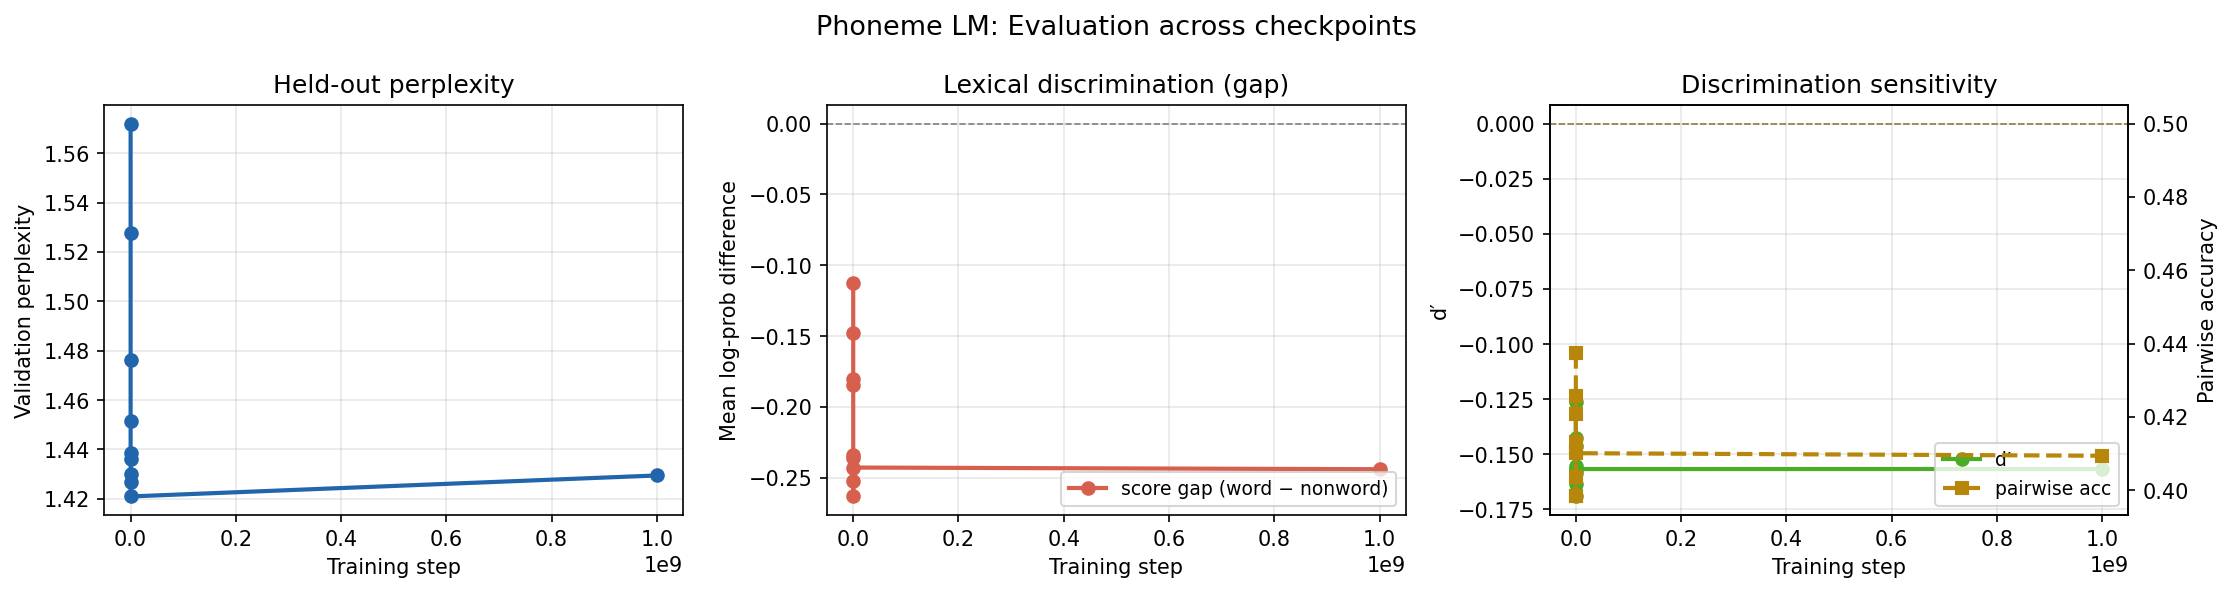
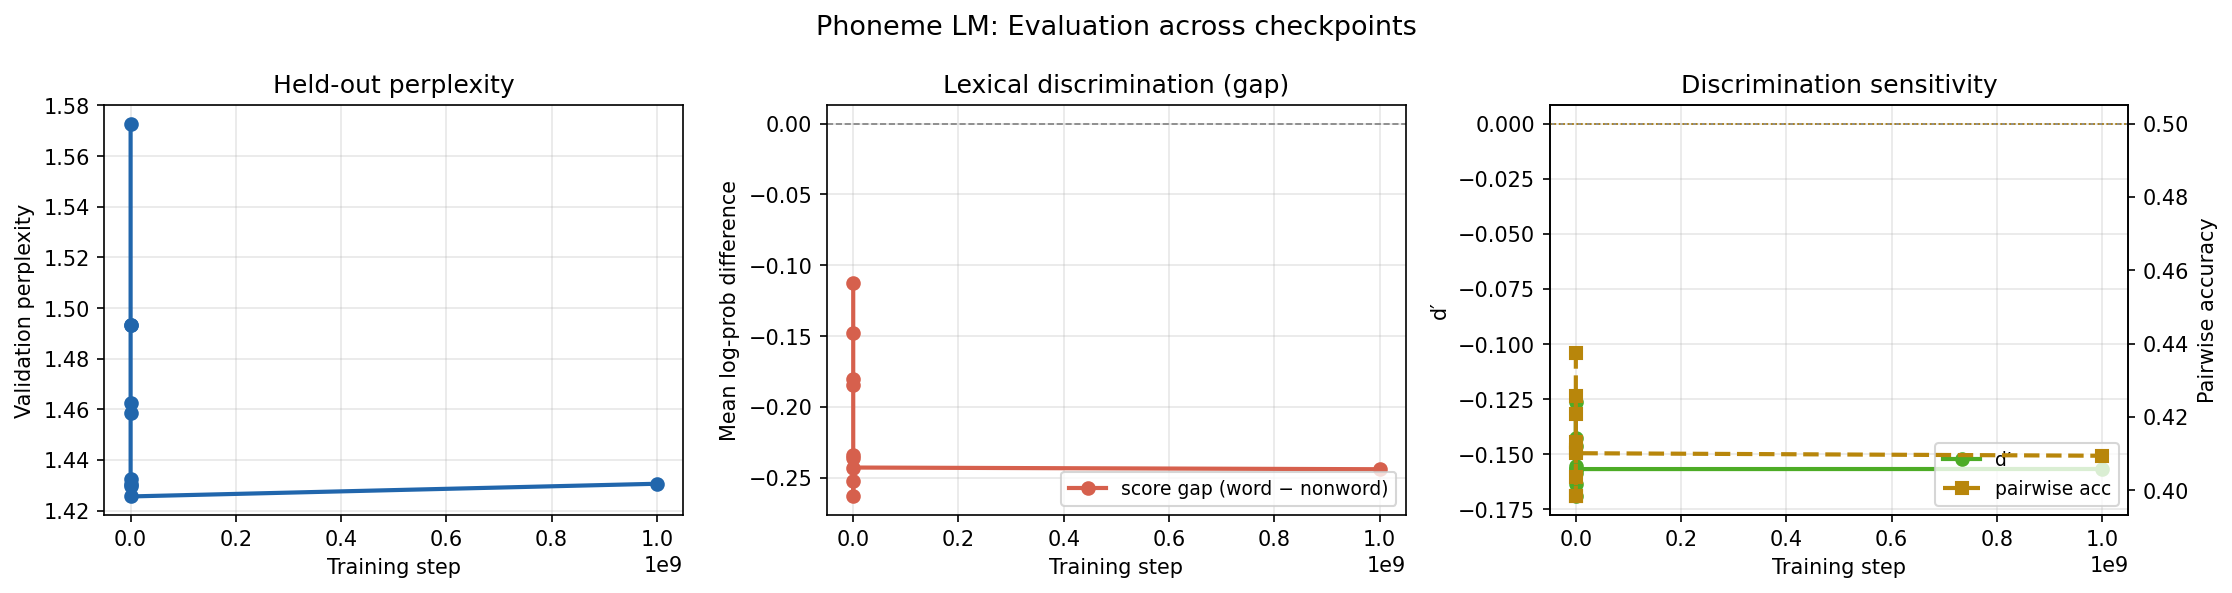
update: track n tokens seen in train.py

diff --git a/src/train.py b/src/train.py
@@ -60,6 +60,7 @@ class TrainConfig:
 	log_every: int = 100
 	eval_every: int = 1000
 	save_every: int = 5000
+	save_step_zero: bool = True		# save an initial checkpoint before any training happens
 	resume_from: Optional[str] = None
 
 	# --- Misc ---
@@ -207,7 +208,11 @@ def train_step(model, batch, optimizer, scheduler, cfg, device):
 	optimizer.step()
 	scheduler.step()
 
-	return loss.item()
+	# number of real (non-padding) target tokens contributing to the loss this step,
+	# used to track cumulative tokens seen across training
+	n_tokens = (target_ids != -100).sum().item()
+
+	return loss.item(), n_tokens
 
 
 # ==== 5. Validation loop ========================================================
@@ -239,25 +244,27 @@ def evaluate(model, val_loader, device):
 
 
 # ==== 6. Checkpointing ===============================================================
-# TODO: want to additionally save the cumulative number of tokens seen by this checkpoint
 
-def save_checkpoint(path, model, optimizer, scheduler, step, cfg): 
+def save_checkpoint(path, model, optimizer, scheduler, step, cfg, total_tokens_seen=0): 
 	os.makedirs(os.path.dirname(path), exist_ok=True)
 	torch.save({
 		"step": step,
+		"total_tokens_seen": total_tokens_seen,
 		"model_state_dict": model.state_dict(),
 		"optimizer_state_dict": optimizer.state_dict(),
 		"scheduler_state_dict": scheduler.state_dict(),
 		"config": asdict(cfg),
 		}, path)
-	print(f"Checkpoint saved -> {path}")
+	print(f"Checkpoint saved -> {path} (step={step}, tokens_seen={total_tokens_seen:,})")
 
 def load_checkpoint(path, model, optimizer, scheduler, device): 
 	ckpt = torch.load(path, map_location=device)
 	model.load_state_dict(ckpt["model_state_dict"])
 	optimizer.load_state_dict(ckpt["optimizer_state_dict"])
 	scheduler.load_state_dict(ckpt["scheduler_state_dict"])
-	return ckpt["step"]
+	# older checkpoints won't have this key, default to 0 so resuming still works
+	total_tokens_seen = ckpt.get("total_tokens_seen", 0)
+	return ckpt["step"], total_tokens_seen
 
 
 # ===== 7. Main training loop ==========================================================
@@ -269,20 +276,27 @@ def train(cfg: TrainConfig):
 	model, optimizer, scheduler, train_loader, val_loader, dataset = build_components(cfg,device)
 
 	global_step = 0
+	total_tokens_seen = 0
 	if cfg.resume_from: 
-		global_step = load_checkpoint(cfg.resume_from, model, optimizer, scheduler, device)
-		print(f"Resumed from step {global_step}")
+		global_step, total_tokens_seen = load_checkpoint(cfg.resume_from, model, optimizer, scheduler, device)
+		print(f"Resumed from step {global_step} (tokens_seen={total_tokens_seen:,})")
+	elif cfg.save_step_zero:
+		# save an initial (step 0) checkpoint before any training happens, useful as a
+		# baseline / sanity-check reference point and for reproducing "from scratch" runs
+		ckpt_path = os.path.join(cfg.checkpoint_dir, "ckpt_step0.pt")
+		save_checkpoint(ckpt_path, model, optimizer, scheduler, global_step, cfg, total_tokens_seen)
 
 	model.train()
 	for epoch in range(cfg.max_epochs): 
 		print(f"\n{'='*60}\nEpoch {epoch}\n{'='*60}")
 		for batch in train_loader:
-			loss = train_step(model, batch, optimizer, scheduler, cfg, device)
+			loss, n_tokens = train_step(model, batch, optimizer, scheduler, cfg, device)
 			global_step += 1 
+			total_tokens_seen += n_tokens
 
 			if global_step % cfg.log_every == 0: 
 				lr = scheduler.get_last_lr()[0]
-				logger.log(global_step, {"train_loss": loss, "lr": lr, "epoch": epoch})
+				logger.log(global_step, {"train_loss": loss, "lr": lr, "epoch": epoch, "tokens_seen": total_tokens_seen})
 
 			if global_step % cfg.eval_every == 0: 
 				val_metrics = evaluate(model, val_loader, device)
@@ -290,21 +304,16 @@ def train(cfg: TrainConfig):
 
 			if global_step % cfg.save_every == 0: 
 				ckpt_path = os.path.join(cfg.checkpoint_dir, f"ckpt_step{global_step}.pt")
-				save_checkpoint(ckpt_path, model, optimizer, scheduler, global_step, cfg)
+				save_checkpoint(ckpt_path, model, optimizer, scheduler, global_step, cfg, total_tokens_seen)
 
 	# final checkpoint + eval at the end of training
 	final_metrics = evaluate(model, val_loader, device)
 	logger.log(global_step, final_metrics)
 	save_checkpoint(os.path.join(cfg.checkpoint_dir, "ckpt_final.pt"),
-					model, optimizer, scheduler, global_step, cfg)
+					model, optimizer, scheduler, global_step, cfg, total_tokens_seen)
 	print("Training complete!!!")
 
 
 if __name__ == "__main__": 
 	cfg = TrainConfig()
 	train(cfg)
-
-
-
-
-

diff --git a/src/lexical_eval.py b/src/lexical_eval.py
@@ -440,13 +440,16 @@ def plot_shuffle_histograms(
     mean_nw  = rec["mean_nonword_score"]
     mean_shw  = rec["mean_shuffle_word_score"]
     mean_shnw = rec["mean_shuffle_nonword_score"]
+    
+    dist_shw = list(rec["shuffle_word_scores_by_id"].values())
+    dist_shnw = list(rec["shuffle_nonword_scores_by_id"].values())
 
     fig, axes = plt.subplots(1, 2, figsize=(11, 4.5), sharey=False)
     fig.suptitle(f"Shuffle-control distributions (step {step})", fontsize=13)
 
     # --- Panel 1: shuffled words ---
     ax = axes[0]
-    ax.hist(shw_means, bins=min(10, len(shw_means)), color="#4393c3",
+    ax.hist(dist_shw, bins=min(10, len(dist_shw)), color="#4393c3",
              edgecolor="white", alpha=0.85)
     ax.axvline(mean_w, color="#2166ac", linewidth=2.2, linestyle="-",
                label=f"real word mean ({mean_w:.3f})")
@@ -460,7 +463,7 @@ def plot_shuffle_histograms(
 
     # --- Panel 2: shuffled nonwords ---
     ax = axes[1]
-    ax.hist(shnw_means, bins=min(10, len(shnw_means)), color="#f4a582",
+    ax.hist(dist_shnw, bins=min(10, len(dist_shnw)), color="#f4a582",
              edgecolor="white", alpha=0.85)
     ax.axvline(mean_nw, color="#d6604d", linewidth=2.2, linestyle="-",
                label=f"real nonword mean ({mean_nw:.3f})")
